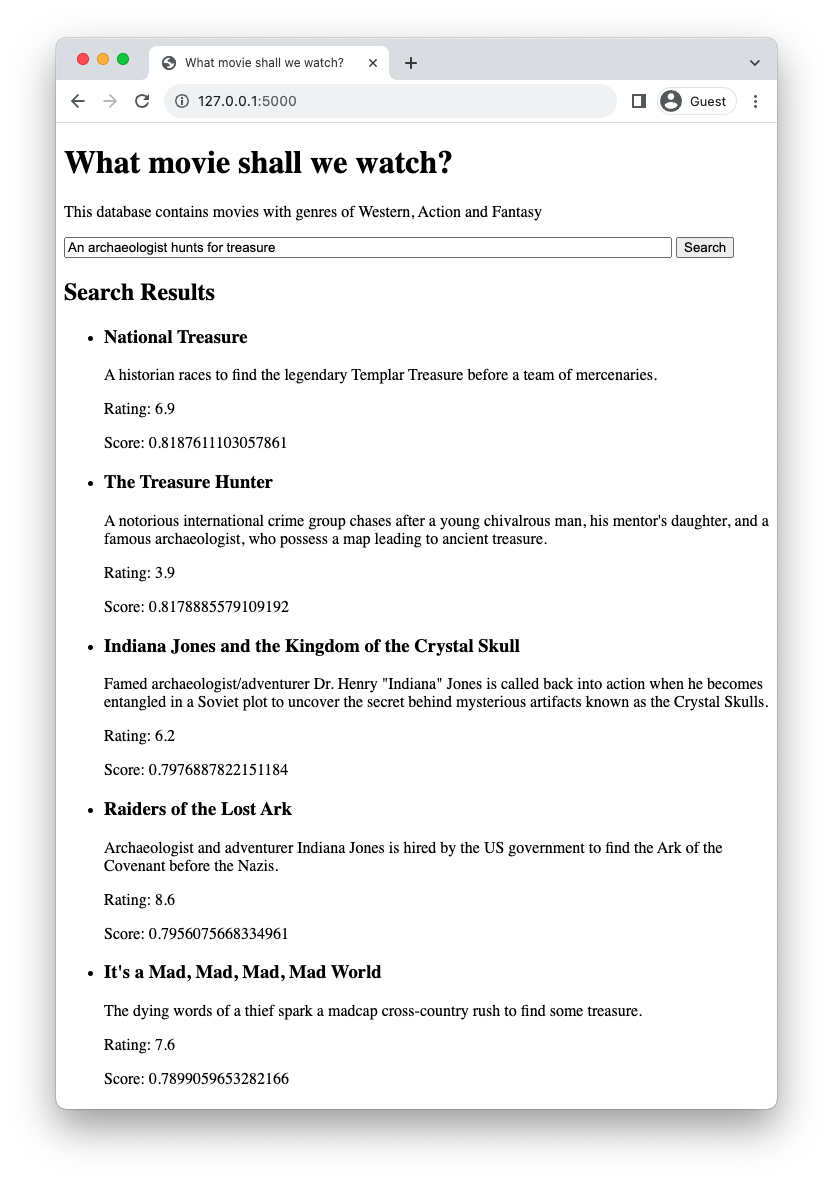
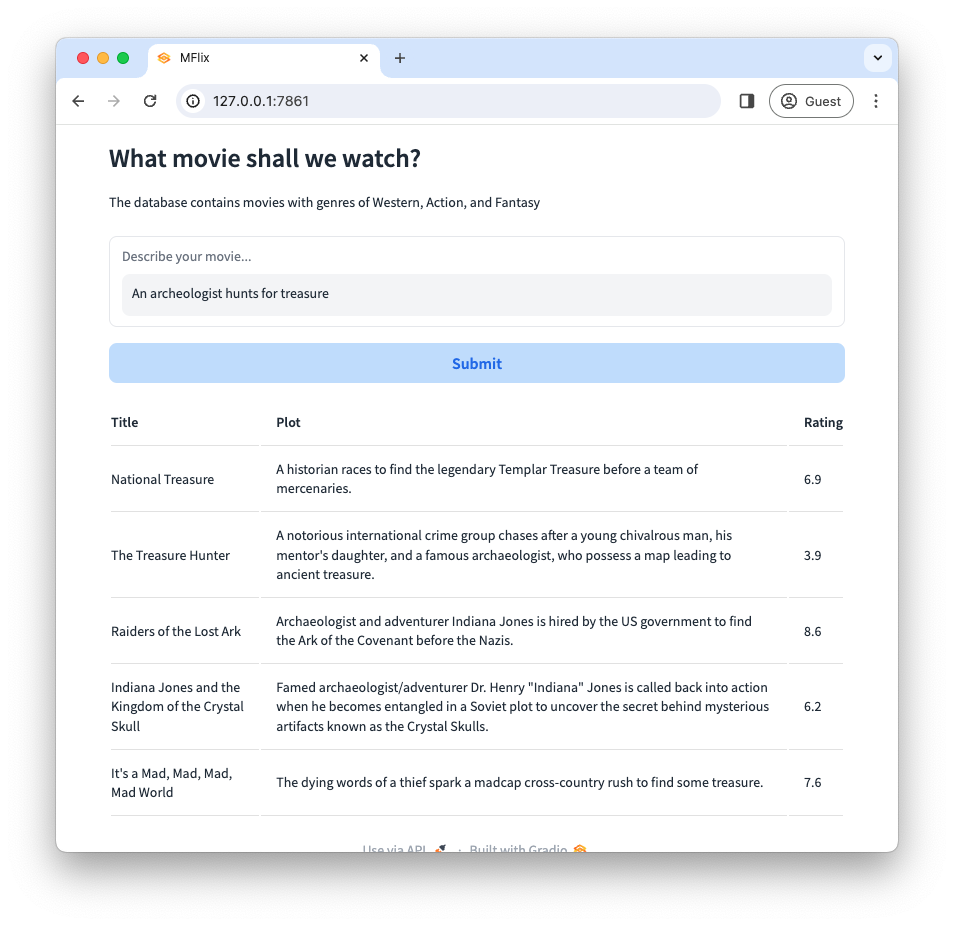
Replaced the UI w/ Gradio

diff --git a/recommend.py b/recommend.py
@@ -1,13 +1,15 @@
-import os
 import openai
 import params
 from pymongo import MongoClient
 import json
 import argparse
 
+
 # Process arguments
-parser = argparse.ArgumentParser(description='Movie Search')
-parser.add_argument('-t', '--question', help="What type of movie are you in the mood for?")
+parser = argparse.ArgumentParser(description="Movie Search")
+parser.add_argument(
+    "-t", "--question", help="What type of movie are you in the mood for?"
+)
 args = parser.parse_args()
 
 if args.question is None:
@@ -20,15 +22,13 @@ if args.question is None:
 else:
     topic = args.question
 
+
 # Encode our question
 def encode(topic):
     openai.api_key = params.OPENAI_API_KEY
-    response = openai.Embedding.create(
-    model="text-embedding-ada-002",
-    input=topic
-    )
-
+    response = openai.Embedding.create(model="text-embedding-ada-002", input=topic)
     return response.data[0].embedding
+
 
 # Establish connection to MongoDB
 def searchMongoDB(embedding):
@@ -41,32 +41,35 @@ def searchMongoDB(embedding):
                 "index": "vector_index",
                 "queryVector": embedding,
                 "path": "plot_embedding",
-                "limit": 5, # number of nearest neighbors to return
-                "numCandidates": 50 # number of HNSW entry points to explore     
+                "limit": 5,  # number of nearest neighbors to return
+                "numCandidates": 50,  # number of HNSW entry points to explore
             }
         },
         {
-        "$project": {
-        "_id": 0,
-        "title": 1,
-        "plot": 1,
-        "rating":"$imdb.rating",
-        "score": { '$meta': "searchScore" }
-        }
-    },
-        {
-            "$limit": 5
+            "$project": {
+                "_id": 0,
+                "title": 1,
+                "plot": 1,
+                "rating": "$imdb.rating",
+                "score": {"$meta": "searchScore"},
+            }
         },
-
+        {"$limit": 5},
     ]
 
     return result_collection.aggregate(pipeline)
 
+
 def getRecommendations(topic):
     embedding = encode(topic)
-    return searchMongoDB(embedding)
+    search_results_cursor = searchMongoDB(embedding)
+    documents = list(search_results_cursor)
+    json_data = json.dumps(documents, default=str, indent=2)
+    return json_data
+
 
 results = getRecommendations(topic)
 
-for result in results:
-    print(json.dumps(result, indent=4), "\n")
+print(results)
+
+

diff --git a/app.py b/app.py
@@ -1,18 +1,60 @@
-from flask import Flask, render_template, request
+from pymongo import MongoClient
+import gradio as gr
+from gradio.themes.base import Base
 import recommend
 
 
-app = Flask(__name__)
+# Create a web interface for trhe app using Gradio
+def getRecommendationsAsHTML(topic):
+    embedding = recommend.encode(topic)
+    cursor = recommend.searchMongoDB(embedding)
 
-@app.route("/", methods=["GET", "POST"])
-def home():
-  if request.method == "POST":
-    search_query = request.form.get("q")  # Get the value from the "q" field
-    results = recommend.getRecommendations(search_query)
-    return render_template("base.html", title="What movie shall we watch?", results=results)
+    data = list(cursor)  # Convert cursor to a list of dictionaries
 
-  else:
-    return render_template("base.html", title="What movie shall we watch?")
+    if not data:
+        return "No results found."
 
+    # Specify the desired order of columns
+    column_order = ["title", "plot", "rating"]
+
+    # Create HTML table
+    table_html = "<table>"
+    
+    # Create table headers in the specified order
+    table_html += "<tr>"
+    for column in column_order:
+        table_html += f"<th>{column.capitalize()}</th>"
+    table_html += "</tr>"
+
+    # Populate table rows in the specified order
+    for row in data:
+        table_html += "<tr>"
+        for column in column_order:
+            table_html += f"<td>{row.get(column, '')}</td>"
+        table_html += "</tr>"
+
+    table_html += "</table>"
+    return table_html
+
+
+with gr.Blocks(theme=Base(), title="MFlix") as demo:
+    gr.Markdown(
+        """
+        # What movie shall we watch?
+        The database contains movies with genres of Western, Action, and Fantasy
+        """
+    )
+    textbox = gr.Textbox(label="Describe your movie...")
+    with gr.Row():
+        button = gr.Button("Submit", variant="primary")
+
+    with gr.Row():
+        movies = gr.HTML()
+
+    # Call query_data function upon clicking the Submit button
+    button.click(getRecommendationsAsHTML, textbox, movies)
+
+
+# Launch the Gradio Interface
 if __name__ == "__main__":
-    app.run(debug=True)
+    demo.launch()

diff --git a/README.md b/README.md
@@ -111,7 +111,7 @@ python3 recommend.py -t "A poisened man fights to find the antidote"
 python3 app.py
 ```
 
-[http://127.0.0.1:5000/](http://127.0.0.1:5000/)
+[http://127.0.0.1:7861](http://127.0.0.1:7861)
 
 ![](./images/ui.png)
 
